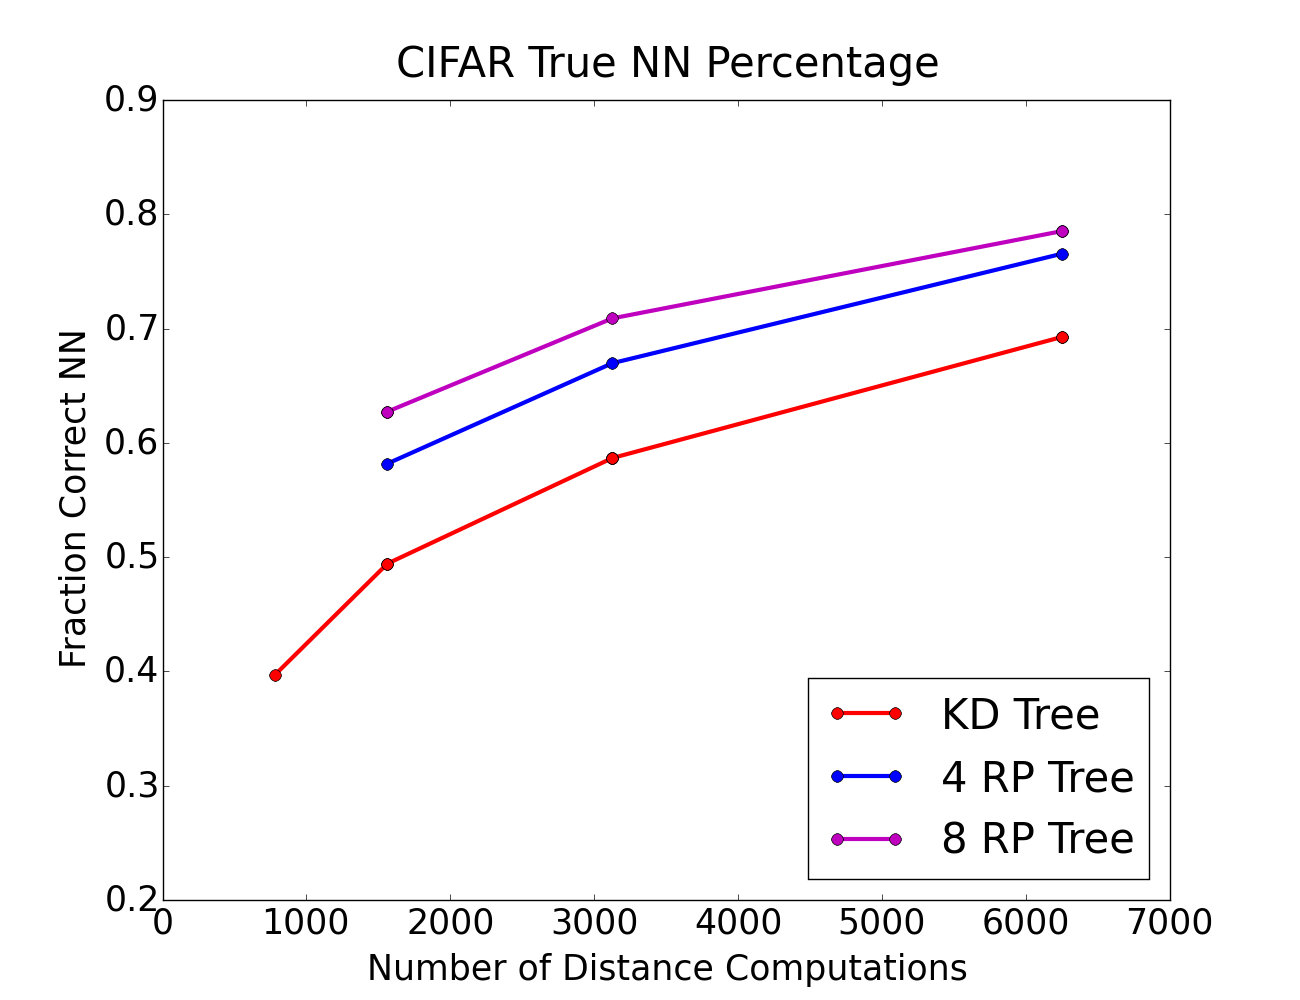
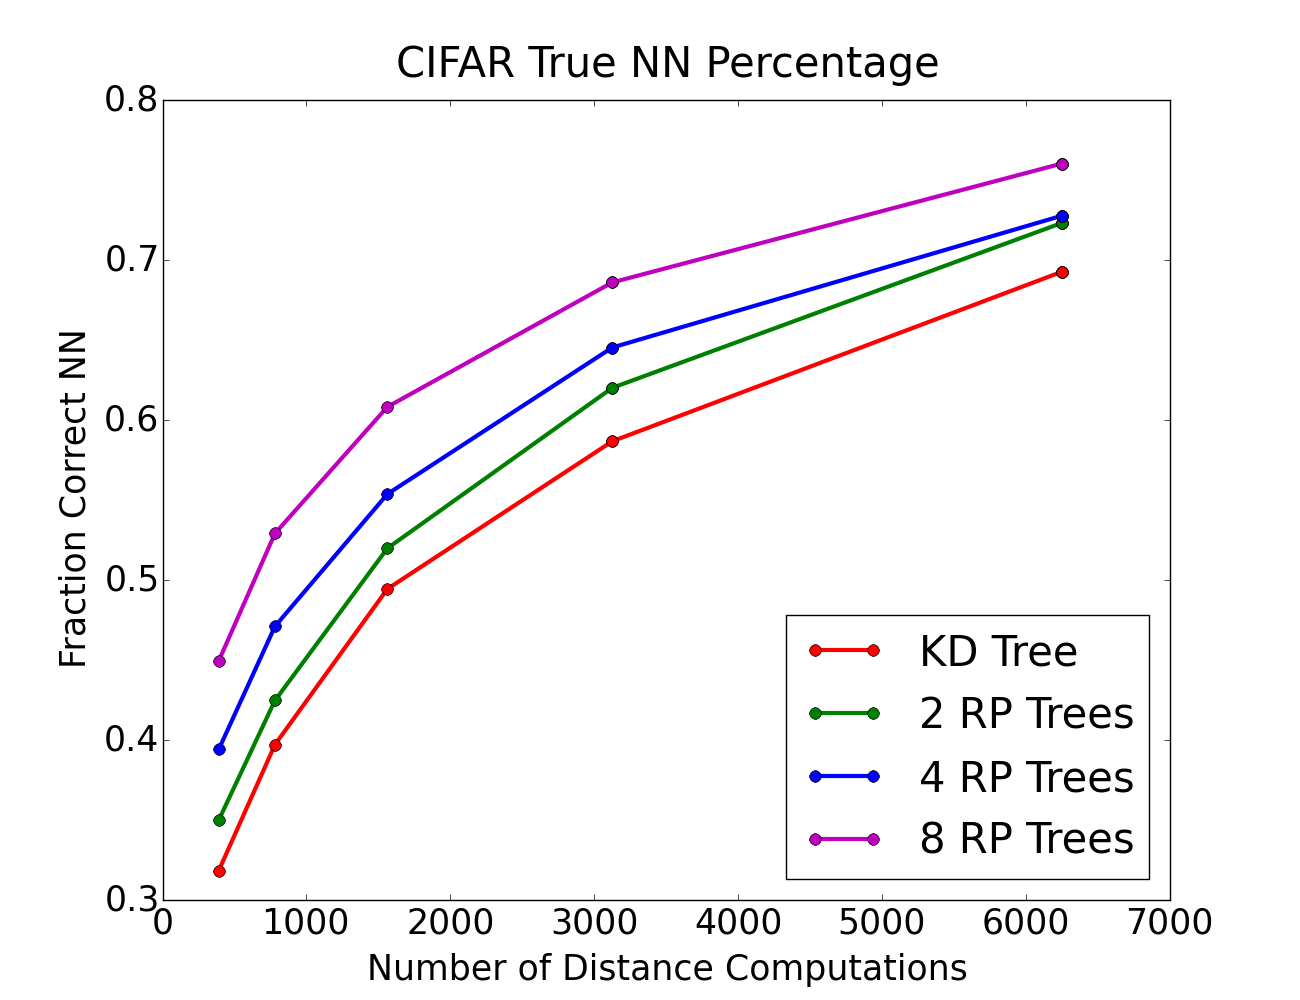
update graph for cifar and personality

diff --git a/data/personality/pyplot.py b/data/personality/pyplot.py
@@ -114,29 +114,49 @@ def ran_spill_vspill():
 	figure.set_size_inches(13, 10)
 	plt.savefig("person_multi_spill_vspill.png")
 
-def ran4_kd():
-	plt.axis([0,6000,0,0.4])
+def ran2_kd():
+	plt.axis([0,6000,0.1,0.5])
 	kd_x, kd_y = read_file(3,2,'kd_tree.dat')
-	ran_x, ran_y = read_partial_file(3,2,0,3,1,'4multi_kd_tree.dat')
+	ran_x, ran_y = read_file(3,2,'2rp_tree.dat')
 	kd_line, = plt.plot(kd_x, kd_y, 'ro-', label='KD Tree', lw=3, ms=8)
-	ran_line, = plt.plot(ran_x, ran_y, 'bo-', label='4 RP Tree', lw=3, ms=8)
+	ran_line, = plt.plot(ran_x, ran_y, 'bo-', label='2 RP Tree', lw=3, ms=8)
 	plt.legend(handles=[kd_line,ran_line],loc=4)
 	figure = plt.gcf()
 	figure.set_size_inches(13, 10)
-	plt.savefig("person_ran4_kd.png")
+	plt.savefig("person_ran2_kd.png")
 
 def ran8_kd():
-	plt.axis([0,6000,0,0.4])
-	kd_x, kd_y = read_partial_file(3,2,1,10,1,'kd_tree.dat')
-	ran_x, ran_y = read_partial_file(3,2,0,3,1,'4multi_kd_tree.dat')
-	ran8_x, ran8_y = read_partial_file(3,2,0,5,1,'8multi_kd_tree.dat')
+	plt.axis([0,6000,0.1,0.5])
+	kd_x, kd_y = read_file(3,2,'kd_tree.dat')
+	ran_x, ran_y = read_file(3,2,'2rp_tree.dat')
+	ran4_x, ran4_y = read_file(3,2,'4rp_tree.dat')
+	ran8_x, ran8_y = read_file(3,2,'8rp_tree.dat')
 	kd_line, = plt.plot(kd_x, kd_y, 'ro-', label='KD Tree', lw=3, ms=8)
-	ran_line, = plt.plot(ran_x, ran_y, 'bo-', label='4 RP Tree', lw=3, ms=8)
-	ran8_line, = plt.plot(ran8_x, ran8_y, 'mo-', label='8 RP Tree', lw=3, ms=8)
-	plt.legend(handles=[kd_line,ran_line, ran8_line],loc=4)
+	ran_line, = plt.plot(ran_x, ran_y, 'go-', label='2 RP Trees', lw=3, ms=8)
+	ran4_line, = plt.plot(ran4_x, ran4_y, 'bo-', label='4 RP Trees', lw=3, ms=8)
+	ran8_line, = plt.plot(ran8_x, ran8_y, 'mo-', label='8 RP Trees', lw=3, ms=8)
+	plt.legend(handles=[kd_line,ran_line,ran4_line,ran8_line],loc=4)
 	figure = plt.gcf()
 	figure.set_size_inches(13, 10)
 	plt.savefig("person_ran8_kd.png")
+
+def kd_pca_ran():
+	plt.axis([0,6000,0,0.6])
+	kd_x, kd_y = read_file(3,2,'kd_tree.dat')
+	pca_x, pca_y = read_file(3,2,'pca_tree.dat')
+	ran_x, ran_y = read_file(3,2,'2rp_tree.dat')
+	ran4_x, ran4_y = read_file(3,2,'4rp_tree.dat')
+	ran8_x, ran8_y = read_file(3,2,'8rp_tree.dat')
+	kd_line, = plt.plot(kd_x, kd_y, 'ro-', label='KD Tree', lw=3, ms=8)
+	pca_line, = plt.plot(pca_x, pca_y, 'bo-', label='PCA Tree', lw=3, ms=8)
+	ran_line, = plt.plot(ran_x, ran_y, 'go-', label='2 RP Trees', lw=3, ms=8)
+	ran4_line, = plt.plot(ran4_x, ran4_y, 'co-', label='4 RP Trees', lw=3, ms=8)
+	ran8_line, = plt.plot(ran8_x, ran8_y, 'mo-', label='8 RP Trees', lw=3, ms=8)
+	plt.legend(handles=[kd_line,pca_line, ran_line,ran4_line,ran8_line],loc=4)
+	figure = plt.gcf()
+	figure.set_size_inches(13, 10)
+	plt.savefig("person_kd_pca_ran8.png")
+
 
 
 def main():
@@ -146,7 +166,7 @@ def main():
 	plt.xlabel('Number of Distance Computations', labelpad = 10)
 	plt.ylabel('Fraction Correct NN', labelpad = 10)
 
-	ran8_kd()
+	kd_pca_ran()
 
 main()
 

diff --git a/data/cifar/pyplot.py b/data/cifar/pyplot.py
@@ -118,29 +118,49 @@ def ran_spill_vspill():
 	figure.set_size_inches(13, 10)
 	plt.savefig("cifar_multi_spill_vspill.png")
 
-def ran_kd():
-	plt.axis([0,7000,0.2,0.9])
+def ran2_kd():
+	plt.axis([0,7000,0.3,0.8])
 	kd_x, kd_y = read_file(3,2,'kd_tree.dat')
-	ran_x, ran_y = read_partial_file(3,2,0,3,1,'4multi_kd_tree.dat')
+	ran_x, ran_y = read_file(3,2,'2rp_tree.dat')
 	kd_line, = plt.plot(kd_x, kd_y, 'ro-', label='KD Tree', lw=3, ms=8)
-	ran_line, = plt.plot(ran_x, ran_y, 'bo-', label='4 RP Trees', lw=3, ms=8)
+	ran_line, = plt.plot(ran_x, ran_y, 'bo-', label='2 RP Trees', lw=3, ms=8)
 	plt.legend(handles=[kd_line,ran_line],loc=4)
 	figure = plt.gcf()
 	figure.set_size_inches(13, 10)
-	plt.savefig("cifar_ran4_kd.png")
+	plt.savefig("cifar_ran2_kd.png")
 
 def ran8_kd():
-	plt.axis([0,7000,0.2, 0.9])
-	kd_x, kd_y = read_partial_file(3,2,1,10,1,'kd_tree.dat')
-	ran_x, ran_y = read_partial_file(3,2,0,3,1,'4multi_kd_tree.dat')
-	ran8_x, ran8_y = read_partial_file(3,2,0,5,1,'8multi_kd_tree.dat')
+	plt.axis([0,7000,0.3, 0.8])
+	kd_x, kd_y = read_file(3,2,'kd_tree.dat')
+	ran_x, ran_y = read_file(3,2,'2rp_tree.dat')
+	ran4_x, ran4_y = read_file(3,2,'4rp_tree.dat')
+	ran8_x, ran8_y = read_file(3,2,'8rp_tree.dat')
 	kd_line, = plt.plot(kd_x, kd_y, 'ro-', label='KD Tree', lw=3, ms=8)
-	ran_line, = plt.plot(ran_x, ran_y, 'bo-', label='4 RP Tree', lw=3, ms=8)
-	ran8_line, = plt.plot(ran8_x, ran8_y, 'mo-', label='8 RP Tree', lw=3, ms=8)
-	plt.legend(handles=[kd_line,ran_line, ran8_line],loc=4)
+	ran_line, = plt.plot(ran_x, ran_y, 'go-', label='2 RP Trees', lw=3, ms=8)
+	ran4_line, = plt.plot(ran4_x, ran4_y, 'bo-', label='4 RP Trees', lw=3, ms=8)
+	ran8_line, = plt.plot(ran8_x, ran8_y, 'mo-', label='8 RP Trees', lw=3, ms=8)
+	plt.legend(handles=[kd_line,ran_line,ran4_line,ran8_line],loc=4)
 	figure = plt.gcf()
 	figure.set_size_inches(13, 10)
 	plt.savefig("cifar_ran8_kd.png")
+
+def kd_pca_ran():
+	plt.axis([0,7000,0.3,0.8])
+	kd_x, kd_y = read_file(3,2,'kd_tree.dat')
+	pca_x, pca_y = read_file(3,2,'pca_tree.dat')
+	ran_x, ran_y = read_file(3,2,'2rp_tree.dat')
+	ran4_x, ran4_y = read_file(3,2,'4rp_tree.dat')
+	ran8_x, ran8_y = read_file(3,2,'8rp_tree.dat')
+	kd_line, = plt.plot(kd_x, kd_y, 'ro-', label='KD Tree', lw=3, ms=8)
+	pca_line, = plt.plot(pca_x, pca_y, 'bo-', label='PCA Tree', lw=3, ms=8)
+	ran_line, = plt.plot(ran_x, ran_y, 'go-', label='2 RP Trees', lw=3, ms=8)
+	ran4_line, = plt.plot(ran4_x, ran4_y, 'co-', label='4 RP Trees', lw=3, ms=8)
+	ran8_line, = plt.plot(ran8_x, ran8_y, 'mo-', label='8 RP Trees', lw=3, ms=8)
+	plt.legend(handles=[kd_line,pca_line, ran_line,ran4_line,ran8_line],loc=4)
+	figure = plt.gcf()
+	figure.set_size_inches(13, 10)
+	plt.savefig("cifar_kd_pca_ran8.png")
+
 
 def main():
 	font = {'size' : 25}

diff --git a/data/mnist/pyplot.py b/data/mnist/pyplot.py
@@ -130,10 +130,10 @@ def ran2_kd():
 
 def ran8_kd():
 	plt.axis([0,8000,0.4,1])
-	kd_x, kd_y = read_partial_file(3,2,0,10,1,'kd_tree.dat')
-	ran_x, ran_y = read_partial_file(3,2,0,10,1,'2multi_kd_tree.dat')
-	ran4_x, ran4_y = read_partial_file(3,2,0,10,1,'4multi_kd_tree.dat')
-	ran8_x, ran8_y = read_partial_file(3,2,0,10,1,'8multi_kd_tree.dat')
+	kd_x, kd_y = read_file(3,2,'kd_tree.dat')
+	ran_x, ran_y = read_file(3,2,'2multi_kd_tree.dat')
+	ran4_x, ran4_y = read_file(3,2,'4multi_kd_tree.dat')
+	ran8_x, ran8_y = read_file(3,2,'8multi_kd_tree.dat')
 	kd_line, = plt.plot(kd_x, kd_y, 'ro-', label='KD Tree', lw=3, ms=8)
 	ran_line, = plt.plot(ran_x, ran_y, 'go-', label='2 RP Trees', lw=3, ms=8)
 	ran4_line, = plt.plot(ran4_x, ran4_y, 'bo-', label='4 RP Trees', lw=3, ms=8)
